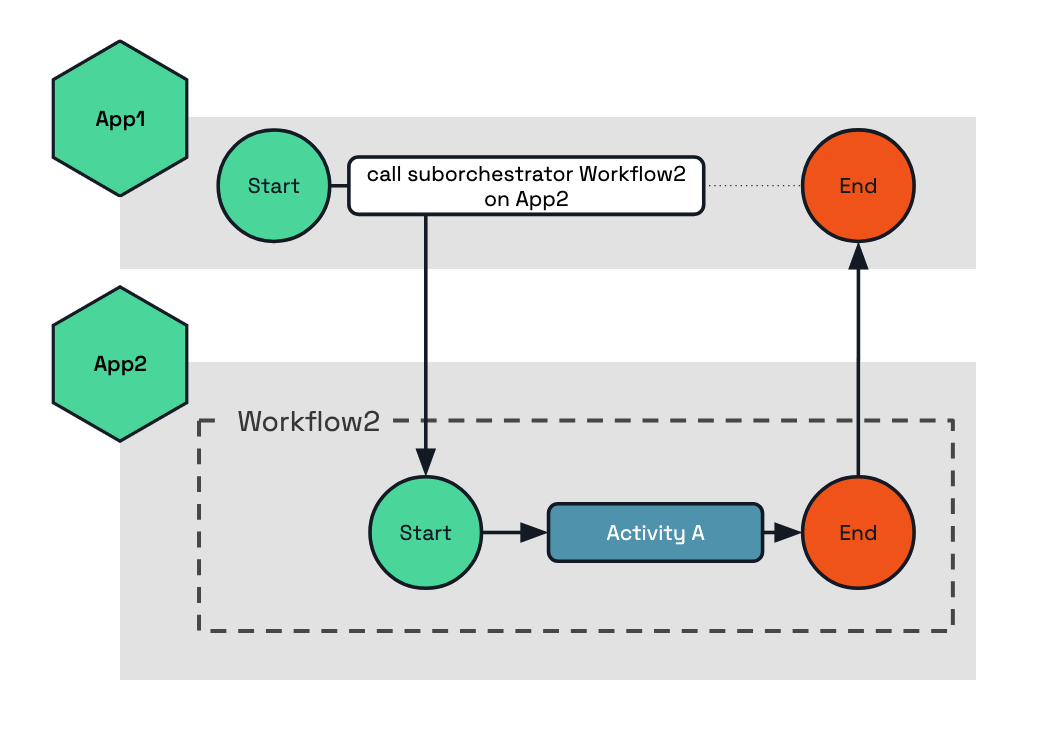
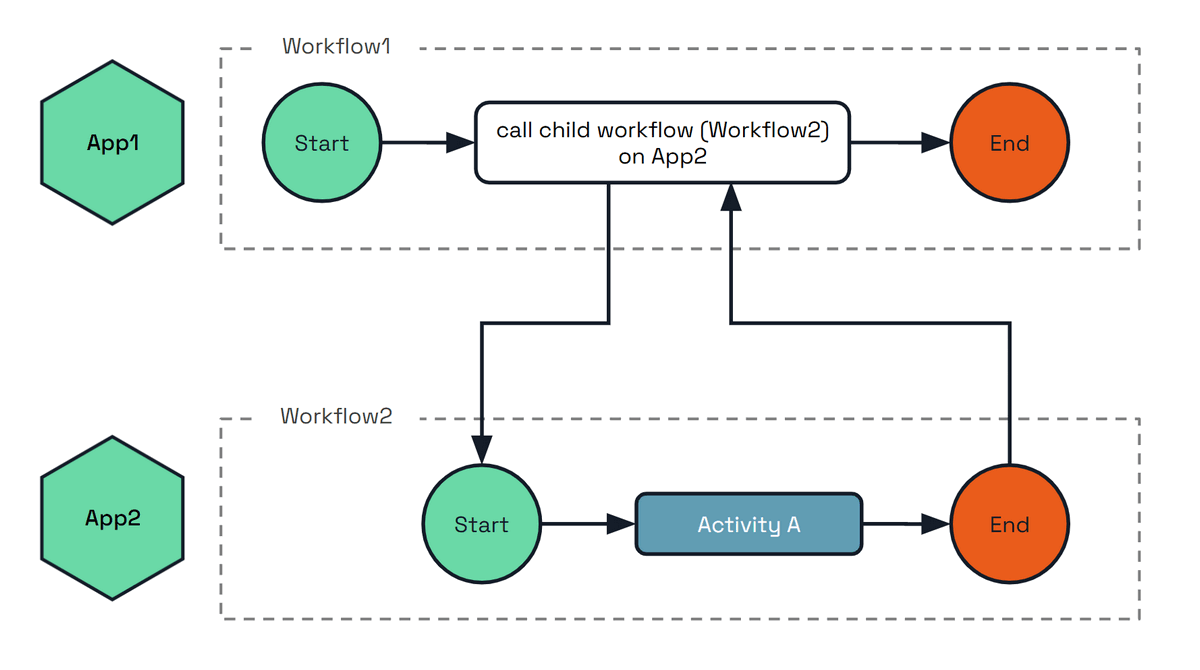
Multi-app workflows: improve docs and images (#4878)
* add complex wf illustration and fix other image

* cleanup

* update howto author wfs

* update go code to use vanity client

* Apply suggestions from code review

* add scheduleworkflow note

* update images

---------

diff --git a/daprdocs/content/en/developing-applications/building-blocks/workflow/howto-author-workflow.md b/daprdocs/content/en/developing-applications/building-blocks/workflow/howto-author-workflow.md
@@ -197,10 +197,12 @@ public class DemoWorkflowActivity implements WorkflowActivity {
 
 <!--go-->
 
+### Define workflow activities
+
 Define each workflow activity you'd like your workflow to perform. The Activity input can be unmarshalled from the context with `ctx.GetInput`. Activities should be defined as taking a `ctx workflow.ActivityContext` parameter and returning an interface and error.
  
 ```go
-func TestActivity(ctx workflow.ActivityContext) (any, error) {
+func BusinessActivity(ctx workflow.ActivityContext) (any, error) {
 	var input int
 	if err := ctx.GetInput(&input); err != nil {
 		return "", err
@@ -210,6 +212,87 @@ func TestActivity(ctx workflow.ActivityContext) (any, error) {
 	return "result", nil
 }
 ```
+
+### Define the workflow
+
+Define your workflow function with the parameter `ctx *workflow.WorkflowContext` and return any and error. Invoke your defined activities from within your workflow.
+
+```go
+func BusinessWorkflow(ctx *workflow.WorkflowContext) (any, error) {
+	var input int
+	if err := ctx.GetInput(&input); err != nil {
+		return nil, err
+	}
+	var output string
+	if err := ctx.CallActivity(BusinessActivity, workflow.ActivityInput(input)).Await(&output); err != nil {
+		return nil, err
+	}
+	if err := ctx.WaitForExternalEvent("businessEvent", time.Second*60).Await(&output); err != nil {
+		return nil, err
+	}
+	
+	if err := ctx.CreateTimer(time.Second).Await(nil); err != nil {
+		return nil, nil
+	}
+	return output, nil
+}
+```
+
+### Register workflows and activities
+
+Before your application can execute workflows, you must register both the workflow orchestrator and its activities with a workflow registry. This ensures Dapr knows which functions to call when executing your workflow.
+
+```go
+func main() {
+	// Create a workflow registry
+	r := workflow.NewRegistry()
+
+	// Register the workflow orchestrator
+	if err := r.AddWorkflow(BusinessWorkflow); err != nil {
+		log.Fatal(err)
+	}
+	fmt.Println("BusinessWorkflow registered")
+
+	// Register the workflow activities
+	if err := r.AddActivity(BusinessActivity); err != nil {
+		log.Fatal(err)
+	}
+	fmt.Println("BusinessActivity registered")
+
+	// Create workflow client and start worker
+	wclient, err := client.NewWorkflowClient()
+	if err != nil {
+		log.Fatal(err)
+	}
+	fmt.Println("Worker initialized")
+
+	ctx, cancel := context.WithCancel(context.Background())
+	if err = wclient.StartWorker(ctx, r); err != nil {
+		log.Fatal(err)
+	}
+	fmt.Println("runner started")
+
+	// Your application logic continues here...
+	// Example: Start a workflow
+	instanceID, err := wclient.ScheduleWorkflow(ctx, "BusinessWorkflow", workflow.WithInput(1))
+	if err != nil {
+		log.Fatalf("failed to start workflow: %v", err)
+	}
+	fmt.Printf("workflow started with id: %v\n", instanceID)
+
+	// Stop workflow worker when done
+	cancel()
+	fmt.Println("workflow worker successfully shutdown")
+}
+```
+
+**Key points about registration:**
+- Use `workflow.NewRegistry()` to create a workflow registry
+- Use `r.AddWorkflow()` to register workflow functions
+- Use `r.AddActivity()` to register activity functions  
+- Use `client.NewWorkflowClient()` to create a workflow client
+- Call `wclient.StartWorker()` to begin processing workflows
+- Use `wclient.ScheduleWorkflow` to schedule a named instance of a workflow
 
 [See the Go SDK workflow activity example in context.](https://github.com/dapr/go-sdk/tree/main/examples/workflow/README.md)
 
@@ -383,16 +466,16 @@ public class DemoWorkflowWorker {
 Define your workflow function with the parameter `ctx *workflow.WorkflowContext` and return any and error. Invoke your defined activities from within your workflow.
 
 ```go
-func TestWorkflow(ctx *workflow.WorkflowContext) (any, error) {
+func BusinessWorkflow(ctx *workflow.WorkflowContext) (any, error) {
 	var input int
 	if err := ctx.GetInput(&input); err != nil {
 		return nil, err
 	}
 	var output string
-	if err := ctx.CallActivity(TestActivity, workflow.ActivityInput(input)).Await(&output); err != nil {
+	if err := ctx.CallActivity(BusinessActivity, workflow.ActivityInput(input)).Await(&output); err != nil {
 		return nil, err
 	}
-	if err := ctx.WaitForExternalEvent("testEvent", time.Second*60).Await(&output); err != nil {
+	if err := ctx.WaitForExternalEvent("businessEvent", time.Second*60).Await(&output); err != nil {
 		return nil, err
 	}
 	
@@ -864,7 +947,7 @@ public class DemoWorkflow extends Workflow {
 [As in the following example](https://github.com/dapr/go-sdk/tree/main/examples/workflow/README.md), a hello-world application using the Go SDK and Dapr Workflow would include:
 
 - A Go package called `client` to receive the Go SDK client capabilities.
-- The `TestWorkflow` method
+- The `BusinessWorkflow` method
 - Creating the workflow with input and output.
 - API calls. In the example below, these calls start and call the workflow activities.
 
@@ -889,15 +972,15 @@ var failActivityTries = 0
 func main() {
 	r := workflow.NewRegistry()
 
-	if err := r.AddWorkflow(TestWorkflow); err != nil {
+	if err := r.AddWorkflow(BusinessWorkflow); err != nil {
 		log.Fatal(err)
 	}
-	fmt.Println("TestWorkflow registered")
+	fmt.Println("BusinessWorkflow registered")
 
-	if err := r.AddActivity(TestActivity); err != nil {
+	if err := r.AddActivity(BusinessActivity); err != nil {
 		log.Fatal(err)
 	}
-	fmt.Println("TestActivity registered")
+	fmt.Println("BusinessActivity registered")
 
 	if err := r.AddActivity(FailActivity); err != nil {
 		log.Fatal(err)
@@ -921,7 +1004,7 @@ func main() {
 	// "start". This is useful for increasing the throughput of creating
 	// workflows.
 	// workflow.WithStartTime(time.Now())
-	instanceID, err := wclient.ScheduleWorkflow(ctx, "TestWorkflow", workflow.WithInstanceID("a7a4168d-3a1c-41da-8a4f-e7f6d9c718d9"), workflow.WithInput(1))
+	instanceID, err := wclient.ScheduleWorkflow(ctx, "BusinessWorkflow", workflow.WithInstanceID("a7a4168d-3a1c-41da-8a4f-e7f6d9c718d9"), workflow.WithInput(1))
 	if err != nil {
 		log.Fatalf("failed to start workflow: %v", err)
 	}
@@ -963,9 +1046,8 @@ func main() {
 
 	fmt.Printf("stage: %d\n", stage)
 
-	// Raise Event Test
-
-	err = wclient.RaiseEvent(ctx, instanceID, "testEvent", workflow.WithEventPayload("testData"))
+	// Raise Event
+	err = wclient.RaiseEvent(ctx, instanceID, "businessEvent", workflow.WithEventPayload("testData"))
 	if err != nil {
 		fmt.Printf("failed to raise event: %v", err)
 	}
@@ -1008,7 +1090,7 @@ func main() {
 	fmt.Printf("stage: %d\n", stage)
 
 	// Terminate workflow test
-	id, err := wclient.ScheduleWorkflow(ctx, "TestWorkflow", workflow.WithInstanceID("a7a4168d-3a1c-41da-8a4f-e7f6d9c718d9"), workflow.WithInput(1))
+	id, err := wclient.ScheduleWorkflow(ctx, "BusinessWorkflow", workflow.WithInstanceID("a7a4168d-3a1c-41da-8a4f-e7f6d9c718d9"), workflow.WithInput(1))
 	if err != nil {
 		log.Fatalf("failed to start workflow: %v", err)
 	}
@@ -1037,22 +1119,22 @@ func main() {
 	fmt.Println("workflow worker successfully shutdown")
 }
 
-func TestWorkflow(ctx *workflow.WorkflowContext) (any, error) {
+func BusinessWorkflow(ctx *workflow.WorkflowContext) (any, error) {
 	var input int
 	if err := ctx.GetInput(&input); err != nil {
 		return nil, err
 	}
 	var output string
-	if err := ctx.CallActivity(TestActivity, workflow.WithActivityInput(input)).Await(&output); err != nil {
+	if err := ctx.CallActivity(BusinessActivity, task.WithActivityInput(input)).Await(&output); err != nil {
 		return nil, err
 	}
 
-	err := ctx.WaitForExternalEvent("testEvent", time.Second*60).Await(&output)
+	err := ctx.WaitForSingleEvent("businessEvent", time.Second*60).Await(&output)
 	if err != nil {
 		return nil, err
 	}
 
-	if err := ctx.CallActivity(TestActivity, workflow.WithActivityInput(input)).Await(&output); err != nil {
+	if err := ctx.CallActivity(BusinessActivity, task.WithActivityInput(input)).Await(&output); err != nil {
 		return nil, err
 	}
 
@@ -1068,7 +1150,7 @@ func TestWorkflow(ctx *workflow.WorkflowContext) (any, error) {
 	return output, nil
 }
 
-func TestActivity(ctx workflow.ActivityContext) (any, error) {
+func BusinessActivity(ctx task.ActivityContext) (any, error) {
 	var input int
 	if err := ctx.GetInput(&input); err != nil {
 		return "", err

diff --git a/daprdocs/content/en/developing-applications/building-blocks/workflow/workflow-multi-app.md b/daprdocs/content/en/developing-applications/building-blocks/workflow/workflow-multi-app.md
@@ -19,28 +19,65 @@ Some scenarios where this is useful include:
 - Implementation of a workflow spans different programming languages based on team expertise or existing codebases.
 - Different team boundaries or microservice ownership.
 
+<img src="/images/workflow-overview/workflow-multi-app-complex.png" width=800 alt="Diagram showing multi-application complex workflow">
+
+The diagram below shows an example scenario of a complex workflow that orchestrates across multiple applications that are written in different languages. Each applications' main steps and activities are:
+
+• **App1: Main Workflow Service** - Top-level orchestrator that coordinates the entire ML pipeline
+- Starts the process
+- Calls data processing activities on App2
+- Calls ML training child workflow on App3
+- Calls model deployment on App4
+- Ends the complete workflow
+- **Language: Java**
+
+• **App2: Data Processing Pipeline** - **GPU activities** only
+- Data Ingesting Activity (GPU-accelerated)
+- Feature Engineering Activity (GPU-accelerated)
+- Returns completion signal to Main Workflow
+- **Language: Go**
+
+• **App3: ML Training Child Workflow** - Contains a child workflow and activities
+- Child workflow orchestrates:
+  - Data Processing Activity
+  - Model Training Activity (GPU-intensive)
+  - Model Validation Activity
+- Triggered by App2's activities completing
+- Returns completion signal to Main Workflow
+- **Language: Java**
+
+• **App4: Model Serving Service** - **Beefy GPU app** with activities only
+- Model Loading Activity (GPU memory intensive)
+- Inference Setup Activity (GPU-accelerated inference)
+- Triggered by App3's workflow completing
+- Returns completion signal to Main Workflow
+- **Language: Go**
 
 ## Multi-application workflows
 
-Like all building blocks in Dapr, workflow execution routing is based on the [App ID of the hosting Dapr application]({{% ref "security-concept.md#application-identity" %}}).
+Workflow execution routing is based on the [App ID of the hosting Dapr application]({{% ref "security-concept.md#application-identity" %}}).
 By default, the full workflow execution is hosted on the app ID that started the workflow. This workflow can be executed across any replicas of that app ID, not just the single replica which scheduled the workflow.
 
 
-It is possible to execute activities or child workflows on different app IDs by specifying the target app ID parameter, inside the workflow execution code.
-Upon execution, the target app ID will execute the activity or child workflow, and return the result to the parent workflow of the originating app ID.
+It is possible to execute activities and child workflows on different app IDs by specifying the target app ID parameter, inside the workflow execution code.
+Upon execution, the target app ID executes the activity or child workflow, and returns the result to the parent workflow of the originating app ID.
 
 The entire Workflow execution may be distributed across multiple app IDs with no limit, with each activity or child workflow specifying the target app ID.
 The final history of the workflow will be saved by the app ID that hosts the very parent (or can consider it the root) workflow.
 
 {{% alert title="Restrictions" color="primary" %}}
-Like other building blocks and resources in Dapr, workflows are scoped to a single namespace.
+Like other API building blocks and resources in Dapr, workflows are scoped to a single namespace.
 This means that all app IDs involved in a multi-application workflow must be in the same namespace.
-Similarly, all app IDs must use the same actor state store.
-Finally, the target app ID must have the activity or child workflow defined, otherwise the parent workflow will retry indefinitely.
+Similarly, all app IDs must use the same workflow (or actor) state store.
+Finally, the target app ID must have the activity or child workflow defined and registered, otherwise the parent workflow retries indefinitely.
 {{% /alert %}}
 
 {{% alert title="Important Limitations" color="warning" %}}
-- **SDKs supporting multi-application workflows** - Multi-application workflows are used via the SDKs. Currently Java (activities calling) and Go (both activities and child workflows calling) SDKs are supported. The SDKs (Python, .NET, JavaScript) are planned for future releases.
+**SDKs supporting multi-application workflows** - Multi-application workflows are used via the SDKs. 
+Currently the following are supported:
+- **Java** (**only** activity calls)
+- **Go** (**both** activities and child workflows calls) 
+- The Python, .NET, JavaScript SDKs support are planned for future releases
 {{% /alert %}}
 
 ## Error handling
@@ -63,7 +100,7 @@ The following example shows how to execute the activity `ActivityA` on the targe
 {{% tab "Go" %}}
 
 ```go
-func TestWorkflow(ctx *workflow.WorkflowContext) (any, error) {
+func BusinessWorkflow(ctx *workflow.WorkflowContext) (any, error) {
 	var output string
 	err := ctx.CallActivity("ActivityA",
 		workflow.WithActivityInput("my-input"),
@@ -83,12 +120,12 @@ func TestWorkflow(ctx *workflow.WorkflowContext) (any, error) {
 {{% tab "Java" %}}
 
 ```java
-public class CrossAppWorkflow implements Workflow {
+public class BusinessWorkflow implements Workflow {
   @Override
   public WorkflowStub create() {
       return ctx -> {
           String output = ctx.callActivity(
-                  "ActivityA",
+                  ActivityA.class.getName(),
                   "my-input",
                   new WorkflowTaskOptions("App2"), // Here we set the target app ID which will execute this activity.
                   String.class
@@ -115,7 +152,7 @@ The following example shows how to execute the child workflow `Workflow2` on the
 {{% tab "Go" %}}
 
 ```go
-func TestWorkflow(ctx *workflow.WorkflowContext) (any, error) {
+func BusinessWorkflow(ctx *workflow.WorkflowContext) (any, error) {
 	var output string
 	err := ctx.CallChildWorkflow("Workflow2",
 		workflow.WithChildWorkflowInput("my-input"),
